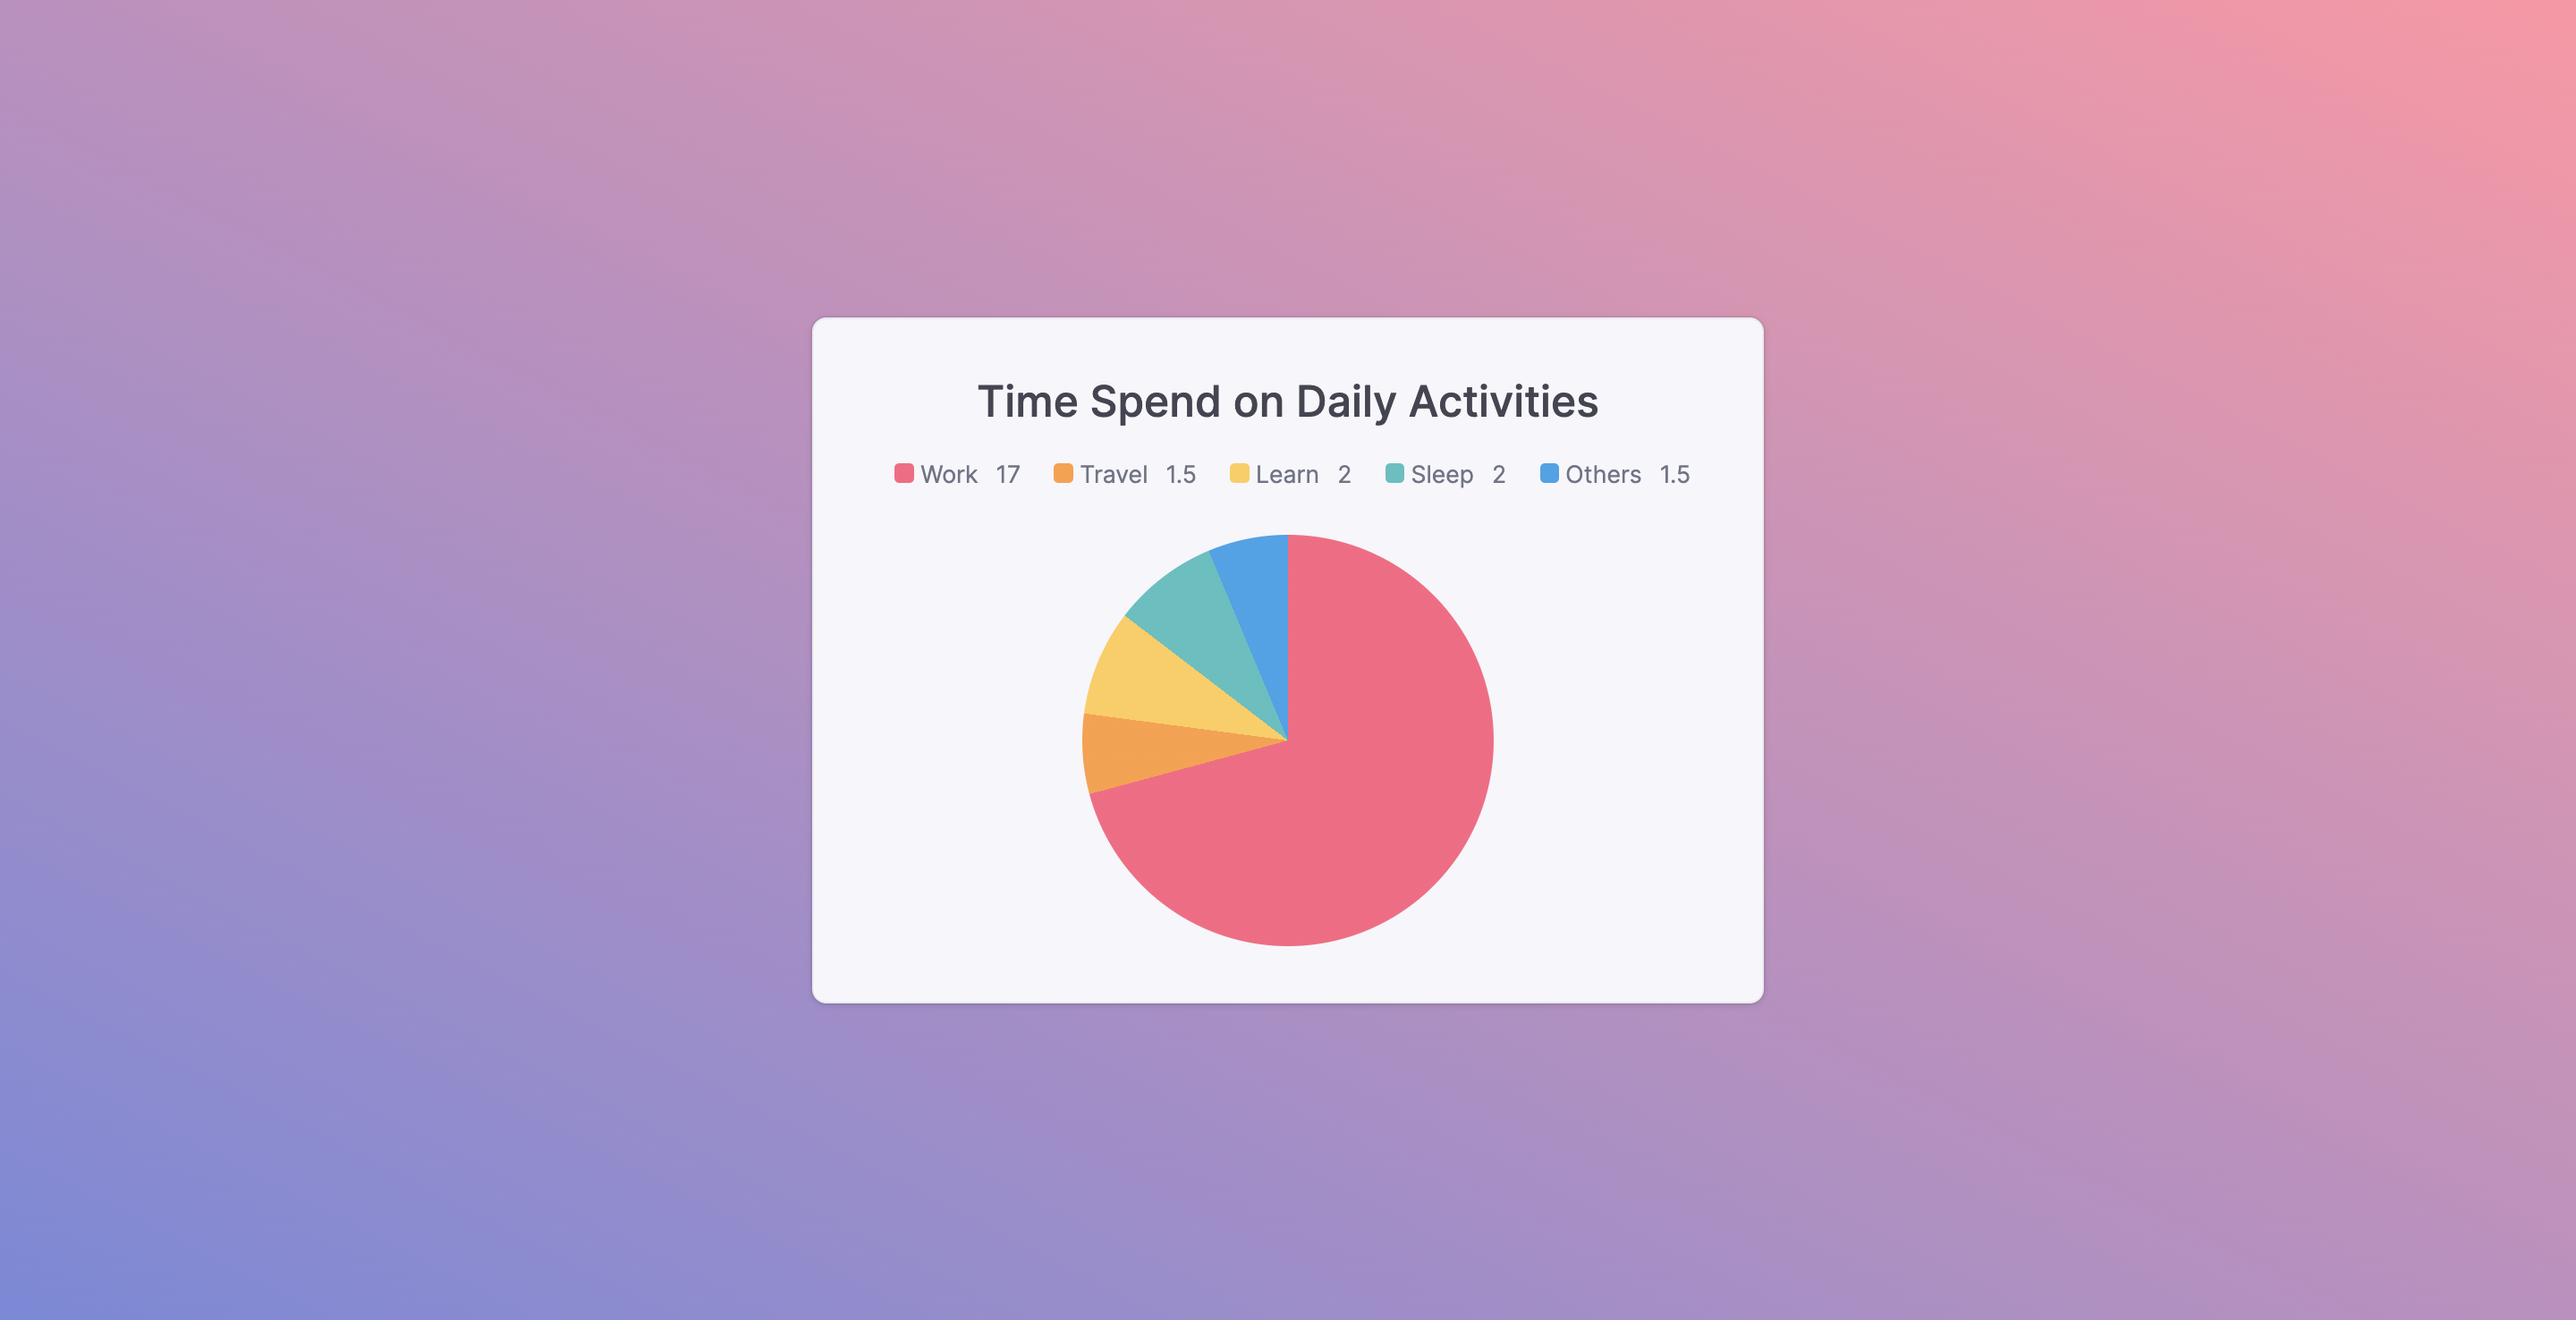
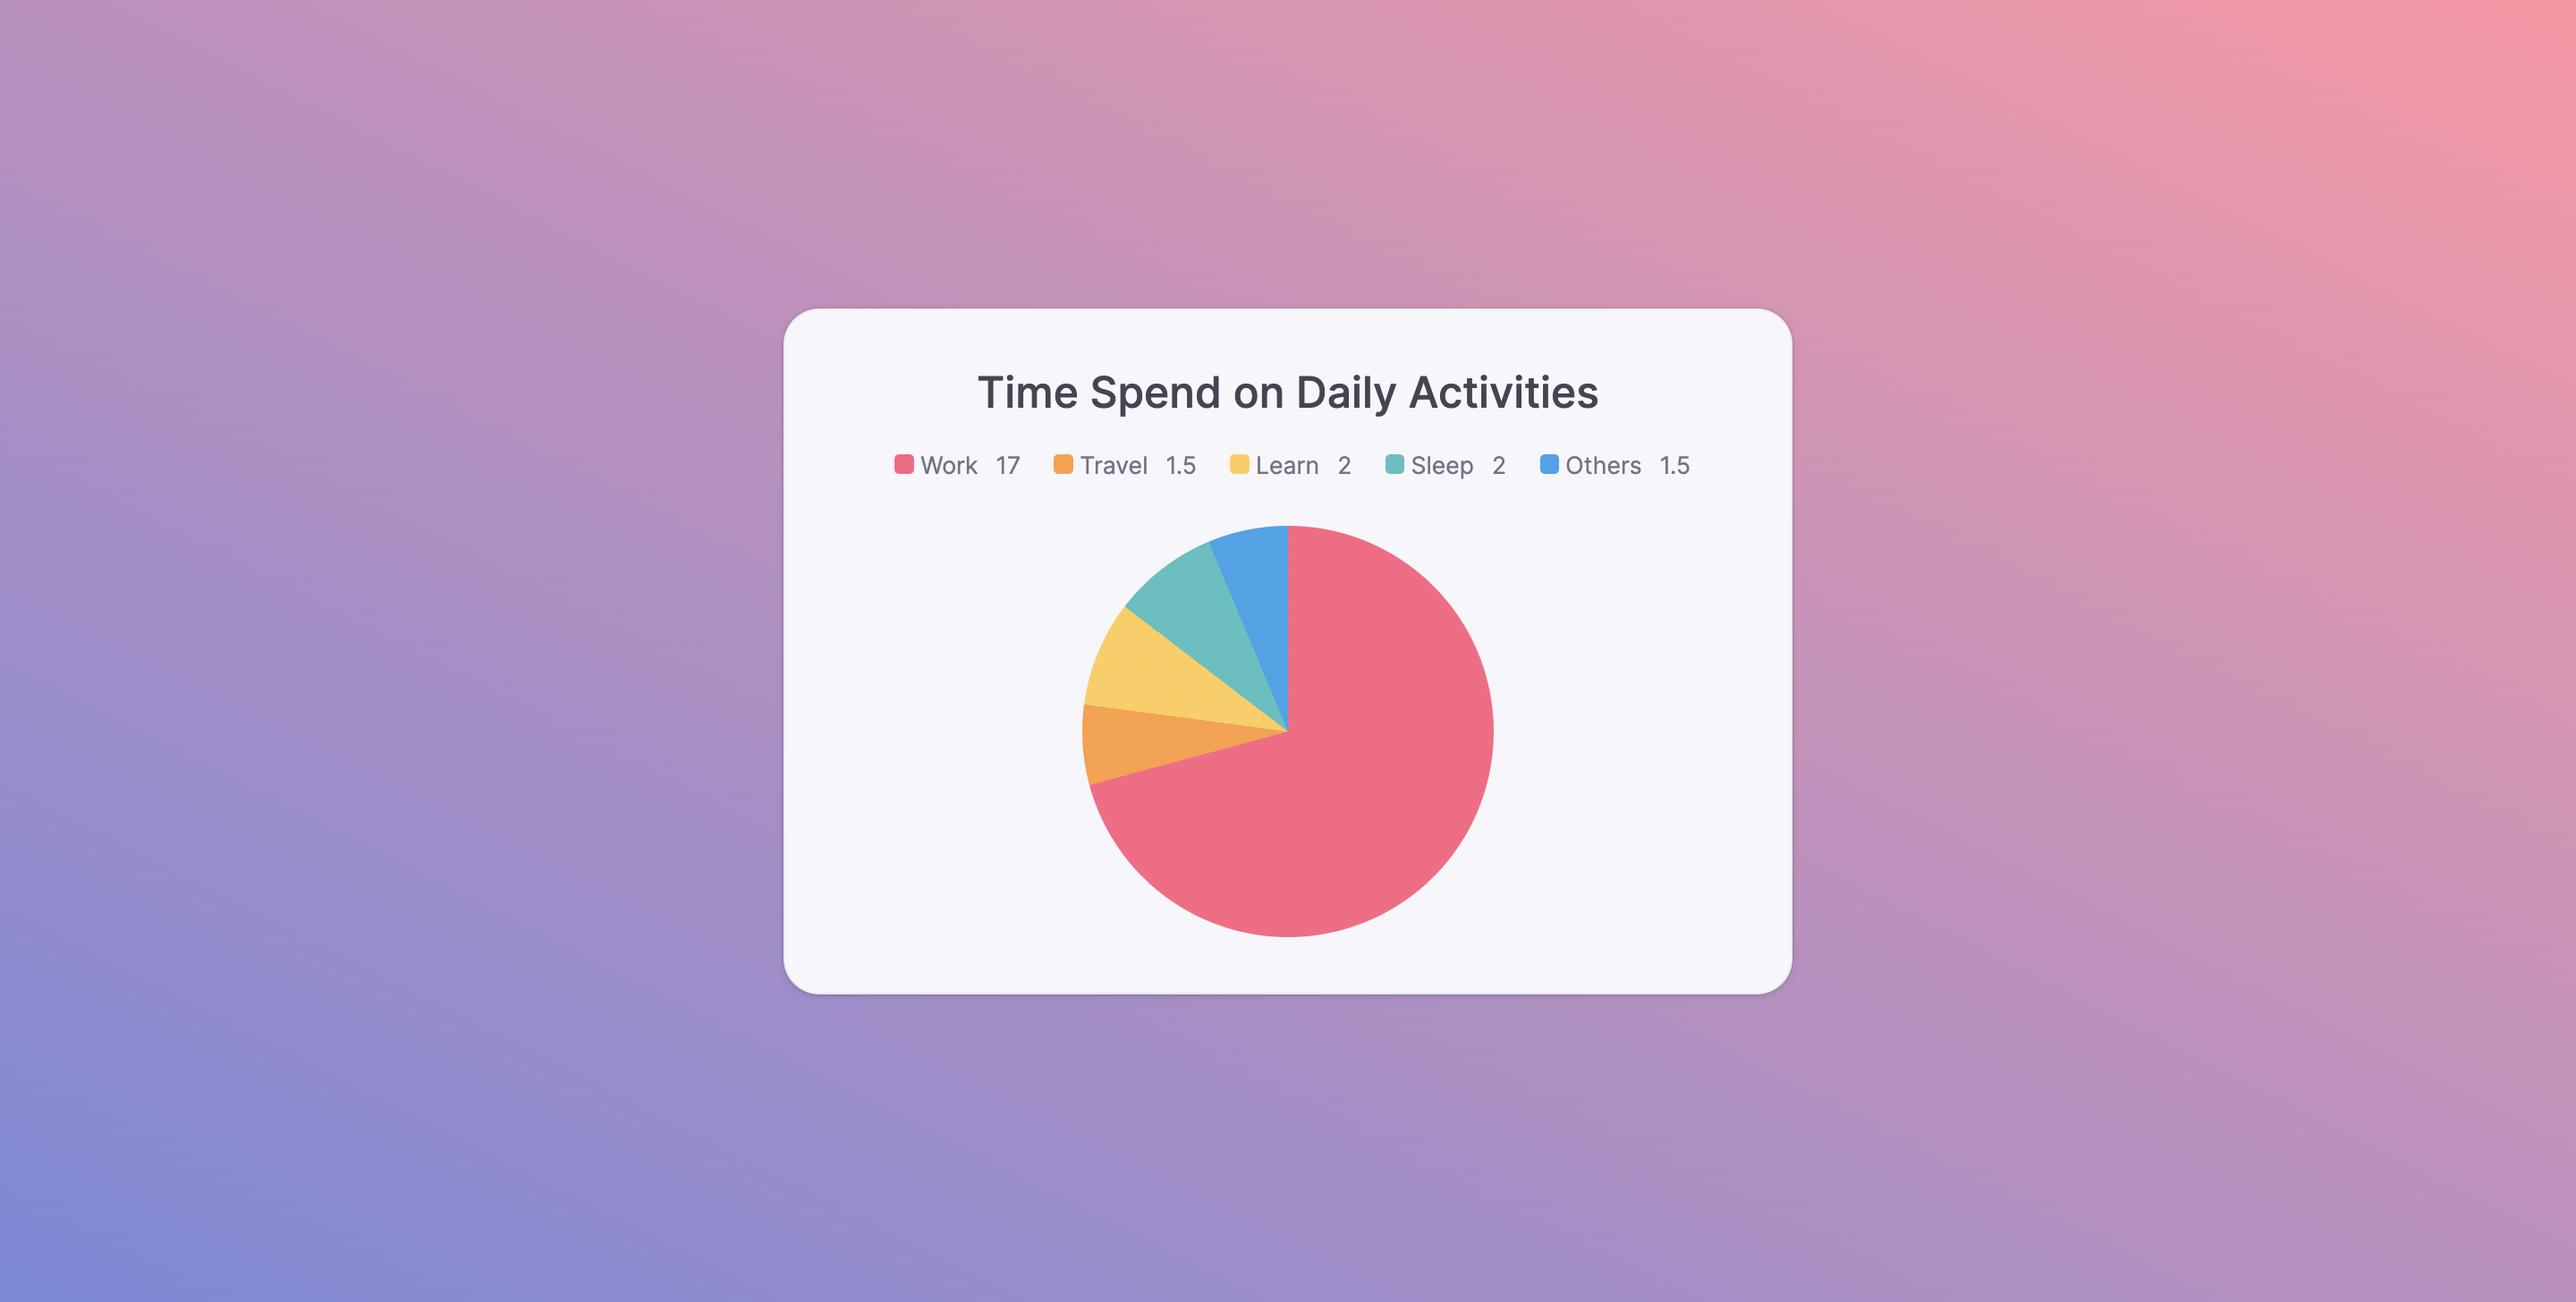
fix(css-pie-chart): make pie chart responsive

diff --git a/docs/css-pie-chart/style.26eb17b2.css b/docs/css-pie-chart/style.26eb17b2.css
@@ -1,0 +1,2 @@
+@import url("https://fonts.googleapis.com/css2?family=Inter:wght@400;500&display=swap");:root{--color-pie-chart-1:#ed6f85;--color-pie-chart-2:#f2a354;--color-pie-chart-3:#f8ce6b;--color-pie-chart-4:#6cbebf;--color-pie-chart-5:#54a1e5;--color-white:#fff;--color-light-grey:#f6f6fc;--color-grey:#717384;--color-dark-grey:#444550}body,html{height:100%;padding:0;margin:0;box-sizing:border-box}body{height:min-content;min-height:100%;display:flex;justify-content:center;align-items:center;background:linear-gradient(to top right,#7c89d5,#f599a5) fixed;padding:1rem;overflow:auto;font-family:Inter,sans-serif}.pie-chart{color:var(--color-grey);width:500px;margin:0;box-shadow:0 0 0 .0625rem rgba(0,0,0,.04),0 .0625rem .25rem 0 rgba(0,0,0,.12),inset 0 0 0 .0625rem rgba(0,0,0,.04);padding:2rem;background-color:var(--color-light-grey);border-radius:1.25rem}.pie-chart h2{margin:0 0 1rem;padding:0 1rem;width:100%;text-align:center;font-weight:500;box-sizing:border-box;color:var(--color-dark-grey)}.pie-chart figcaption{font-size:smaller;width:100%;display:flex;flex-wrap:wrap;justify-content:center;margin-bottom:1.5rem}.pie-chart figcaption .caption-label{flex:0 1 auto;margin:.125rem .5em}.pie-chart figcaption .caption-label:before{display:inline-block;content:"";width:.8em;height:.8em;margin-left:.4em;border-radius:.2em}.pie-chart figcaption .caption-label:first-child:before{background-color:var(--color-pie-chart-1)}.pie-chart figcaption .caption-label:nth-child(2):before{background-color:var(--color-pie-chart-2)}.pie-chart figcaption .caption-label:nth-child(3):before{background-color:var(--color-pie-chart-3)}.pie-chart figcaption .caption-label:nth-child(4):before{background-color:var(--color-pie-chart-4)}.pie-chart figcaption .caption-label:nth-child(5):before{background-color:var(--color-pie-chart-5)}.pie-chart figcaption .caption-label .number{float:right;margin-left:10px;text-align:right}.pie-chart .chart{max-width:230px;width:80%;border-radius:100%;background:radial-gradient(circle,transparent 100%,var(--color-white) 0),conic-gradient(var(--color-pie-chart-1) 0,var(--color-pie-chart-1) 70.8%,var(--color-pie-chart-2) 0,var(--color-pie-chart-2) 77.1%,var(--color-pie-chart-3) 0,var(--color-pie-chart-3) 85.4%,var(--color-pie-chart-4) 0,var(--color-pie-chart-4) 93.7%,var(--color-pie-chart-5) 0,var(--color-pie-chart-5) 100%);margin:0 auto}.pie-chart .chart:after{content:"";display:block;padding-bottom:100%}
+/*# sourceMappingURL=style.26eb17b2.css.map */

diff --git a/002 - CSS Pie Chart/src/style.css b/002 - CSS Pie Chart/src/style.css
@@ -27,7 +27,7 @@ body {
   display: flex;
   justify-content: center;
   align-items: center;
-  background: linear-gradient(to top right, #7c89d5, #f599a5);
+  background: linear-gradient(to top right, #7c89d5, #f599a5) fixed;
   padding: 1rem;
   overflow: auto;
   font-family: 'Inter', sans-serif;
@@ -38,33 +38,13 @@ body {
   width: 500px;
   margin: 0;
   box-shadow: 0 0 0 0.0625rem rgba(0, 0, 0, 0.04), 0 0.0625rem 0.25rem 0 rgba(0, 0, 0, 0.12), rgba(0, 0, 0, 0.04) 0 0 0 0.0625rem inset;
-  padding: 1rem;
+  padding: 2rem;
   background-color: var(--color-light-grey);
-  border-radius: 0.5rem;
-}
-
-.pie-chart .chart {
-  width: 230px;
-  height: 230px;
-  border-radius: 100%;
-  background: radial-gradient(circle, transparent 100%, var(--color-white) 0),
-    conic-gradient(
-      var(--color-pie-chart-1) 0,
-      var(--color-pie-chart-1) 70.8%,
-      var(--color-pie-chart-2) 0,
-      var(--color-pie-chart-2) 77.1%,
-      var(--color-pie-chart-3) 0,
-      var(--color-pie-chart-3) 85.4%,
-      var(--color-pie-chart-4) 0,
-      var(--color-pie-chart-4) 93.7%,
-      var(--color-pie-chart-5) 0,
-      var(--color-pie-chart-5) 100%
-    );
-  margin: 1.5rem auto 1rem;
+  border-radius: 1.25rem;
 }
 
 .pie-chart h2 {
-  margin: 1rem 0;
+  margin: 0 0 1rem 0;
   padding: 0 1rem;
   width: 100%;
   text-align: center;
@@ -79,6 +59,7 @@ body {
   display: flex;
   flex-wrap: wrap;
   justify-content: center;
+  margin-bottom: 1.5rem;
 }
 
 .pie-chart figcaption .caption-label {
@@ -92,7 +73,6 @@ body {
   width: 0.8em;
   height: 0.8em;
   margin-left: 0.4em;
-  height: 0.8em;
   border-radius: 0.2em;
 }
 
@@ -120,4 +100,30 @@ body {
   float: right;
   margin-left: 10px;
   text-align: right;
+}
+
+.pie-chart .chart {
+  max-width: 230px;
+  width: 80%;
+  border-radius: 100%;
+  background: radial-gradient(circle, transparent 100%, var(--color-white) 0),
+    conic-gradient(
+      var(--color-pie-chart-1) 0,
+      var(--color-pie-chart-1) 70.8%,
+      var(--color-pie-chart-2) 0,
+      var(--color-pie-chart-2) 77.1%,
+      var(--color-pie-chart-3) 0,
+      var(--color-pie-chart-3) 85.4%,
+      var(--color-pie-chart-4) 0,
+      var(--color-pie-chart-4) 93.7%,
+      var(--color-pie-chart-5) 0,
+      var(--color-pie-chart-5) 100%
+    );
+  margin: 0 auto;
+}
+
+.pie-chart .chart:after {
+  content: '';
+  display: block;
+  padding-bottom: 100%;
 }

diff --git a/docs/css-pie-chart/index.html b/docs/css-pie-chart/index.html
@@ -1,1 +1,1 @@
-<!DOCTYPE html><html lang="en"><head><meta charset="utf-8"><meta http-equiv="Content-Type" content="text/html; charset=utf-8"><meta name="language" content="English"><meta http-equiv="X-UA-Compatible" content="IE=edge"><meta name="viewport" content="width=device-width,initial-scale=1,user-scalable=no"><meta name="format-detection" content="telephone=no, date=no, address=no, email=no"><title>CSS Pie Chart</title><link rel="stylesheet" href="style.75e9a2e2.css" type="text/css"></head><body> <figure class="pie-chart"> <h2>Time Spend on Daily Activities</h2> <figcaption> <div class="caption-label"> Work <span class="number">17</span> </div> <div class="caption-label"> Travel <span class="number">1.5</span> </div> <div class="caption-label"> Learn <span class="number">2</span> </div> <div class="caption-label"> Sleep <span class="number">2</span> </div> <div class="caption-label"> Others <span class="number">1.5</span> </div> </figcaption> <div class="chart"></div> </figure> </body></html>
+<!DOCTYPE html><html lang="en"><head><meta charset="utf-8"><meta http-equiv="Content-Type" content="text/html; charset=utf-8"><meta name="language" content="English"><meta http-equiv="X-UA-Compatible" content="IE=edge"><meta name="viewport" content="width=device-width,initial-scale=1,user-scalable=no"><meta name="format-detection" content="telephone=no, date=no, address=no, email=no"><title>CSS Pie Chart</title><link rel="stylesheet" href="style.26eb17b2.css" type="text/css"></head><body> <figure class="pie-chart"> <h2>Time Spend on Daily Activities</h2> <figcaption> <div class="caption-label"> Work <span class="number">17</span> </div> <div class="caption-label"> Travel <span class="number">1.5</span> </div> <div class="caption-label"> Learn <span class="number">2</span> </div> <div class="caption-label"> Sleep <span class="number">2</span> </div> <div class="caption-label"> Others <span class="number">1.5</span> </div> </figcaption> <div class="chart"></div> </figure> </body></html>
